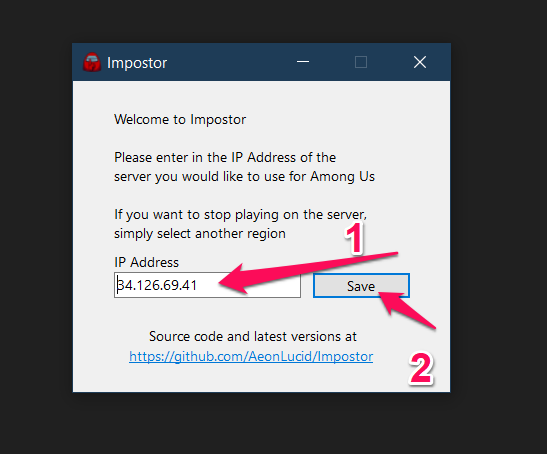
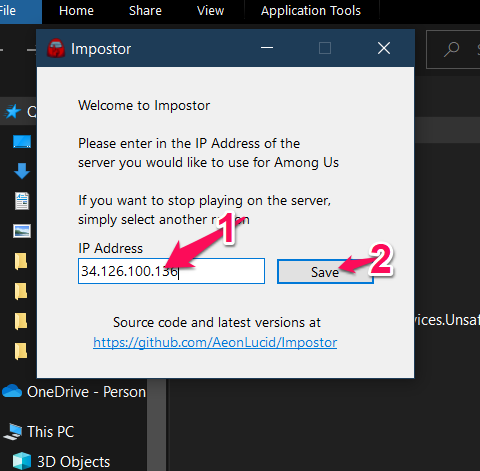
fix ip

diff --git a/README.md b/README.md
@@ -16,7 +16,7 @@
 ### B2: Run file .exe
 ![run file exe](./image/1.png)
 
-### B3: Nhập IP: ``34.126.69.41`` và nhấn `Save`
+### B3: Nhập IP: ``34.126.100.136`` và nhấn `Save`
 
 ![enter ip](./image/2.png)
 
